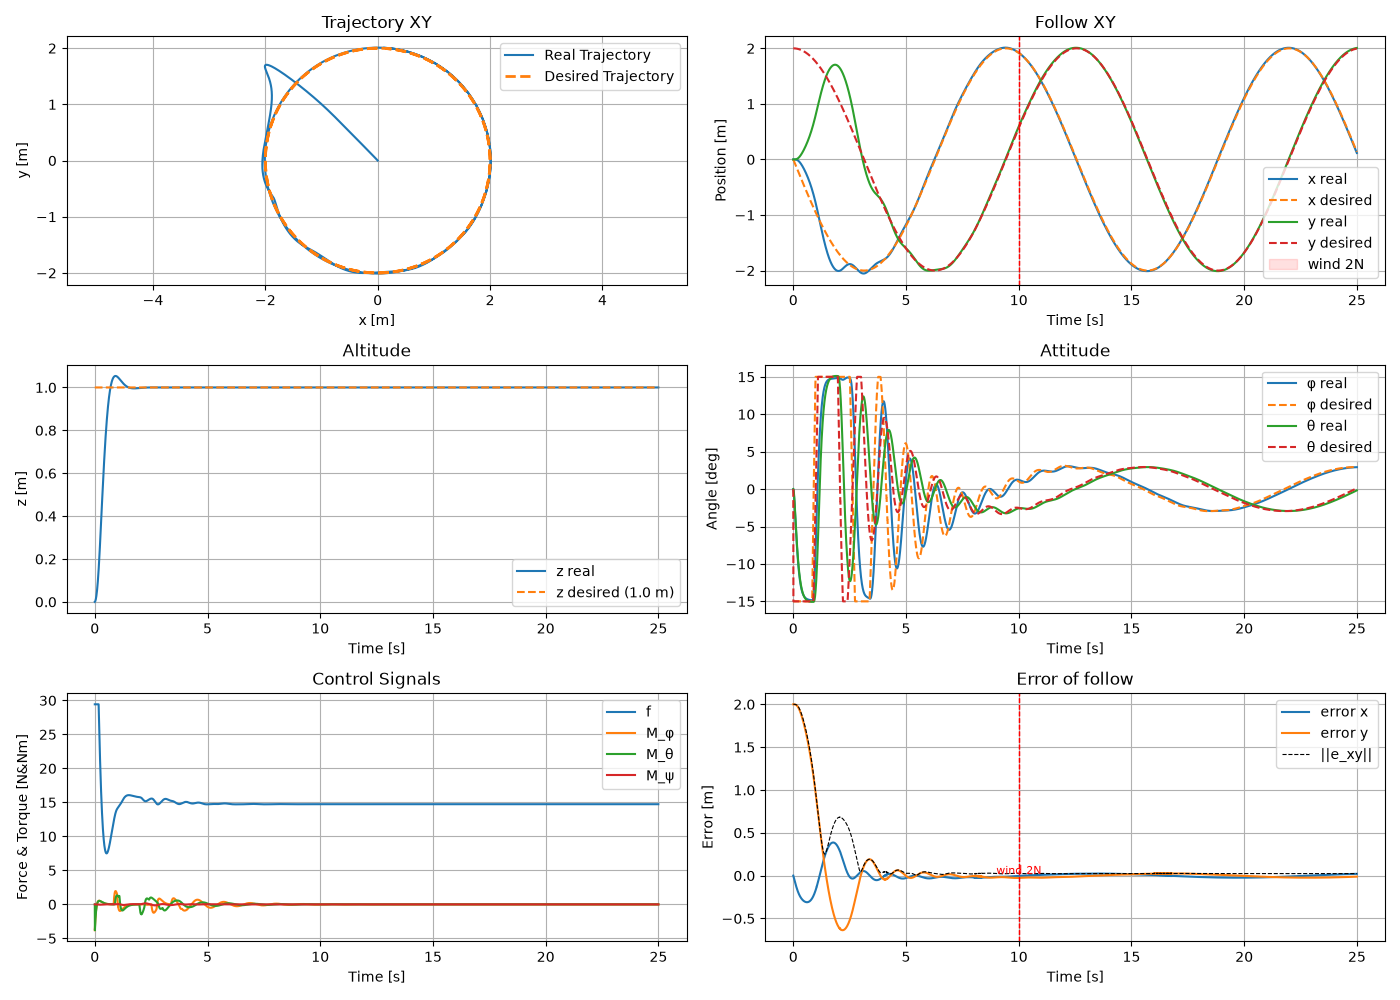
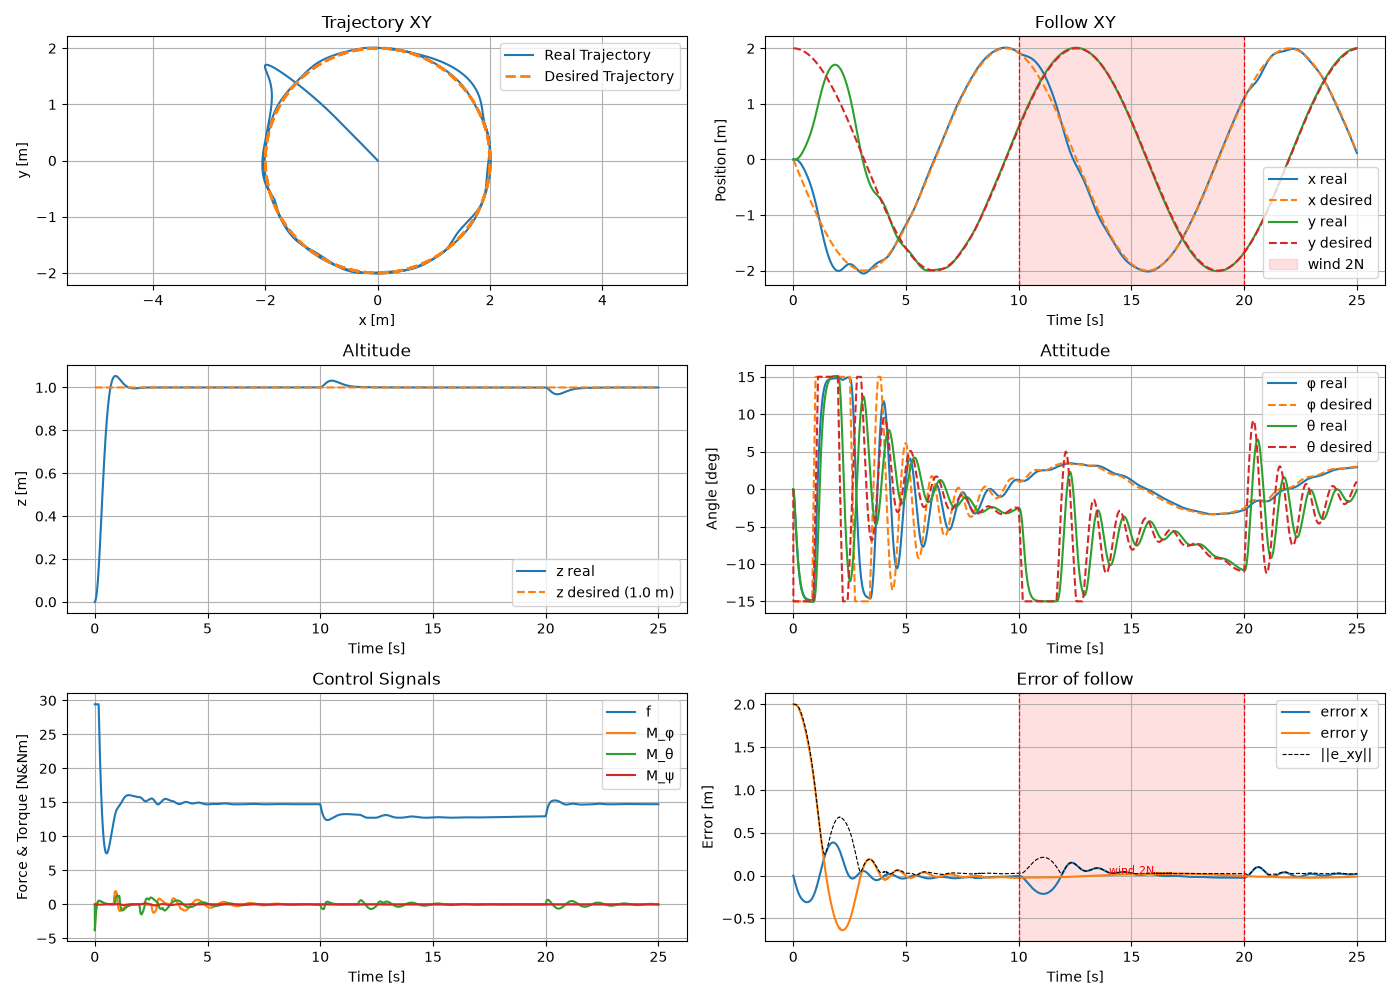
chore: fig_name

diff --git a/control.py b/control.py
@@ -48,9 +48,10 @@ class Controller:
         self.max_thrust = 2 * self.m * self.g
 
         # Disturbance — wind step force in inertial frame [N]
-        self.DIST_FORCE = np.array([2.0, 0.0, 2.0])  # 3N in X  o controle theta satura
+        self.wind_intsty = 1.0  # Wind intensity factor
+        self.DIST_FORCE = np.array([2.0, 0.0, 2.0])*self.wind_intsty  # 3N in X  o controle theta satura
         self.DIST_START = 10.0                          # onset time [s]
-        self.DIST_END   = 10.0                         # end time [s]
+        self.DIST_END   = 20.0                         # end time [s]
 
         self.p_filter = LowPassFilter(dt=self.delta_t, f_corte=30.0, initial_value=0.0)
         self.q_filter = LowPassFilter(dt=self.delta_t, f_corte=30.0, initial_value=0.0)
@@ -219,7 +220,7 @@ class Controller:
 
     def closed_loop_dynamics(self, t, state):
         
-        state_dot = drone_dynamics(t, state[:12], self.control)
+        state_dot = drone_dynamics(t, state, self.control)
 
         # Apply wind disturbance as external force on velocity states
         if self.DIST_START <= t <= self.DIST_END:

diff --git a/Simulate.py b/Simulate.py
@@ -5,7 +5,9 @@ from scipy.integrate import solve_ivp
 from control import Controller 
 from Trajectory import circular_trajectory, line_trajectory, z_rampa, spiral_trajectory
 
+# d = {circular_trajectory: "circular", line_trajectory: "line", z_rampa: "z_rampa", spiral_trajectory: "spiral"}
 trajectory = circular_trajectory
+fig_name = ""
 dt = 0.005
 periodo_controle = 5000 # em microssegundos
 t_end = 25
@@ -225,5 +227,4 @@ axs[2, 1].grid(True)
 axs[2, 1].legend()
 
 plt.tight_layout()
-plt.savefig("Figures/test1",)
-plt.show()
+plt.savefig(f"Figures/{fig_name}.png",bbox_inches="tight", dpi=200)

diff --git a/config.py b/config.py
@@ -3,8 +3,8 @@ import numpy as np
 g = 9.81
 
 m = 1.5  # drone mass [kg]
-d_uav = 0.2
-h_uav = 0
+d_uav = 0.2 # drone radius [m]
+h_uav = 0 # drone height [m]
 J = np.diag([
     0.025,  # Jx
     0.025,  # Jy
